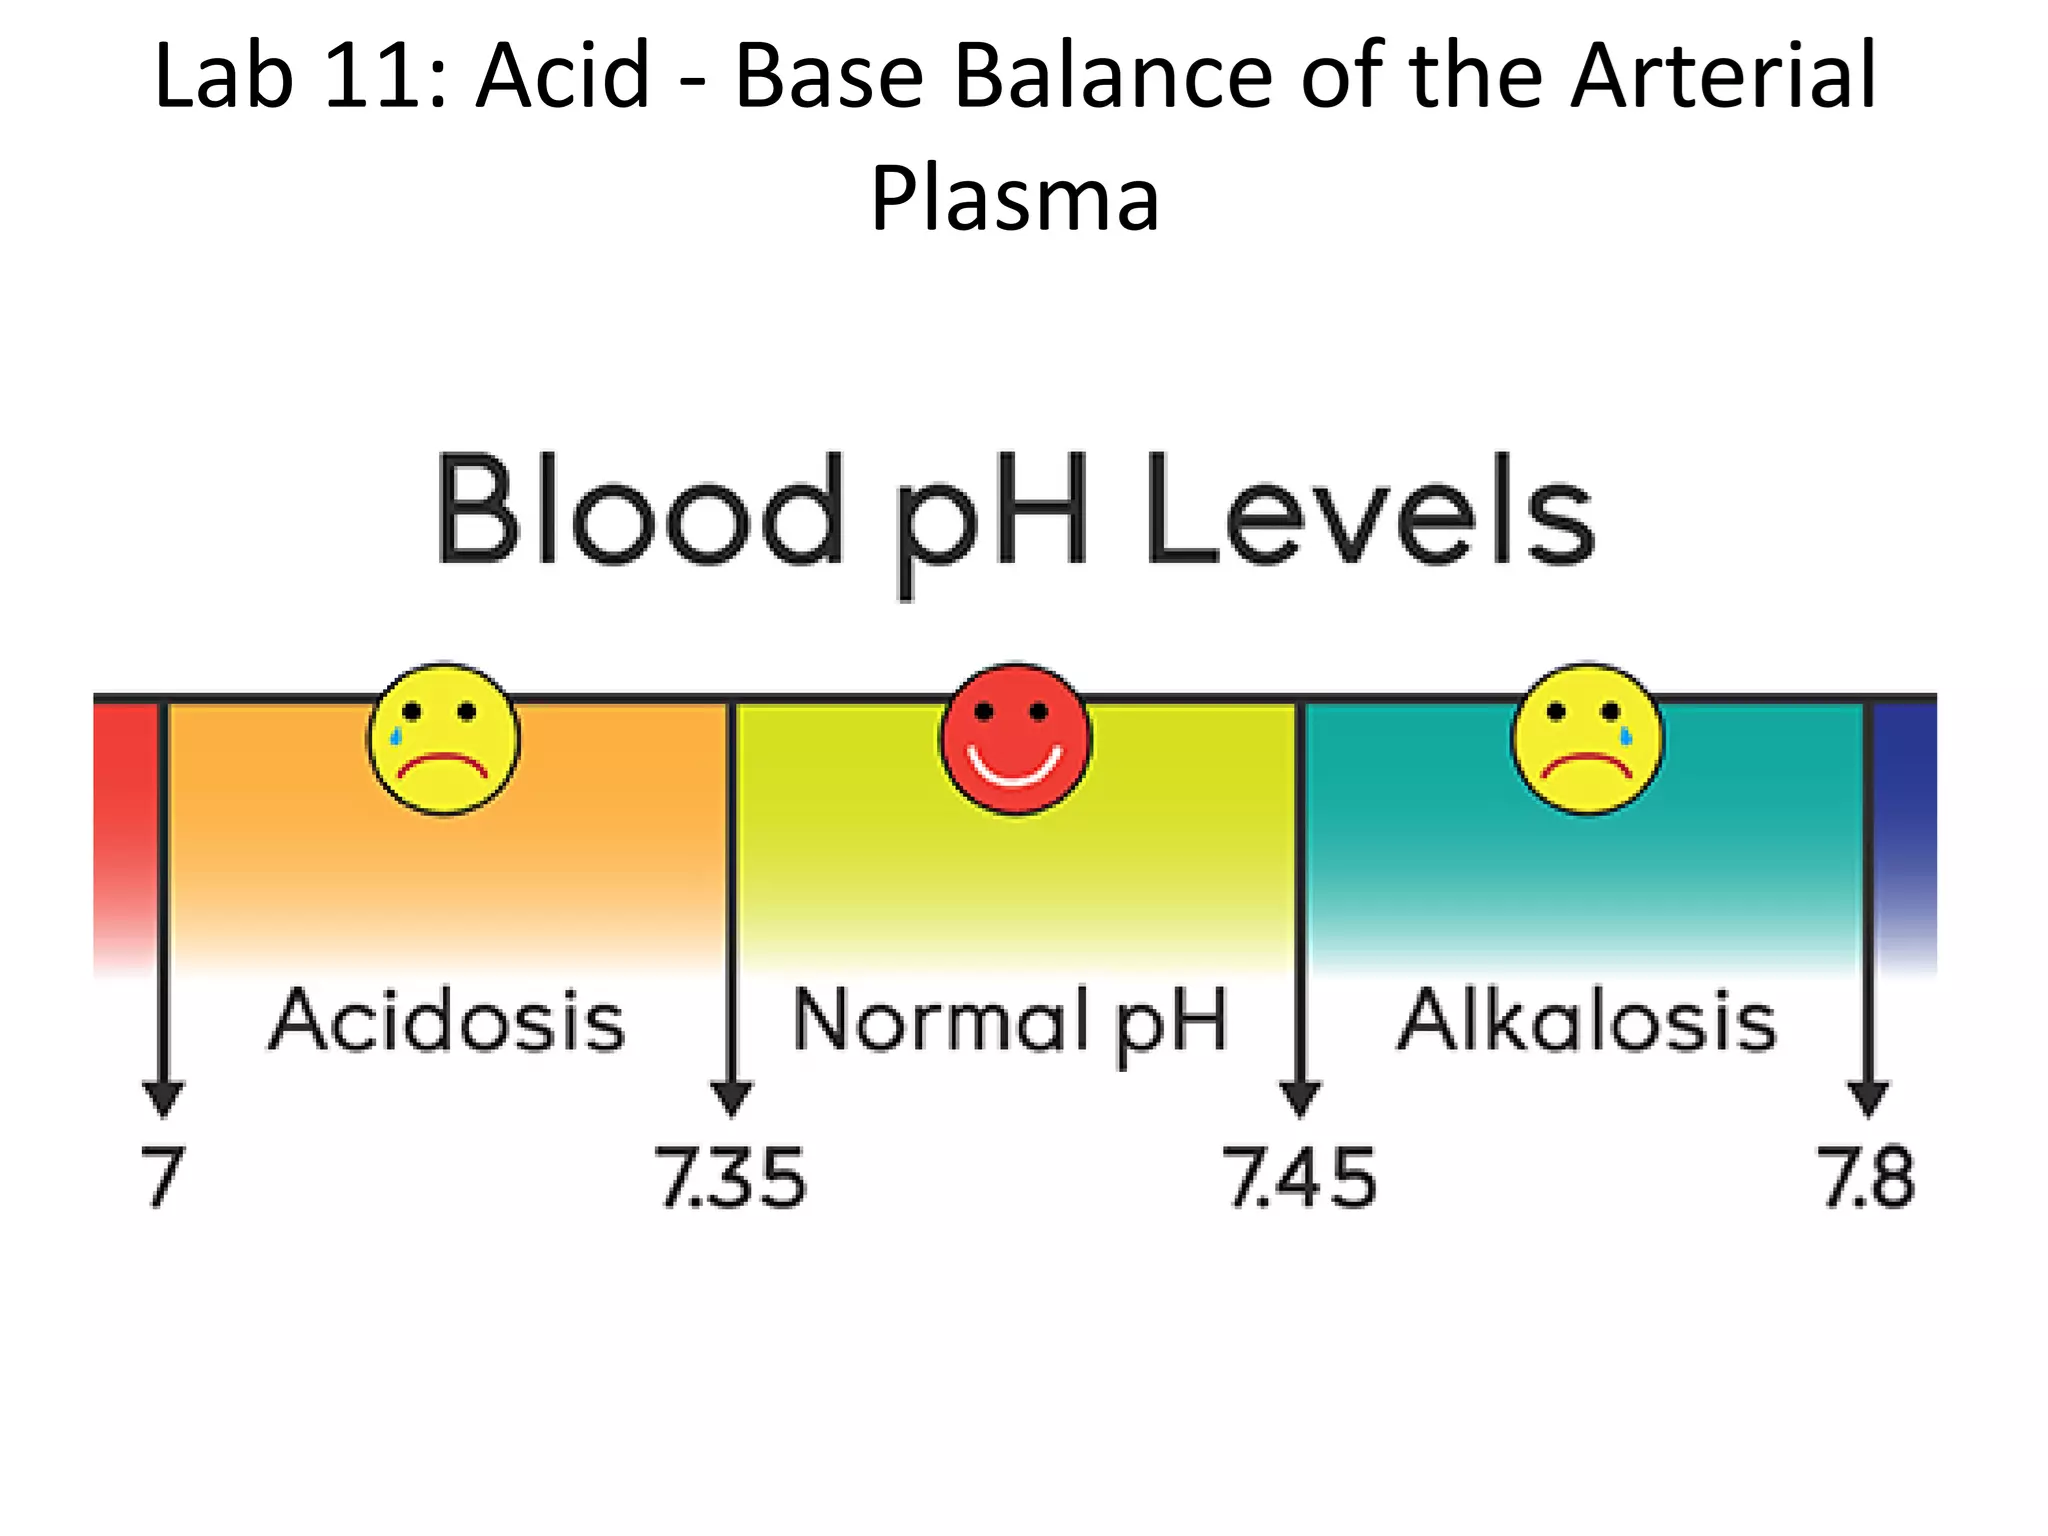
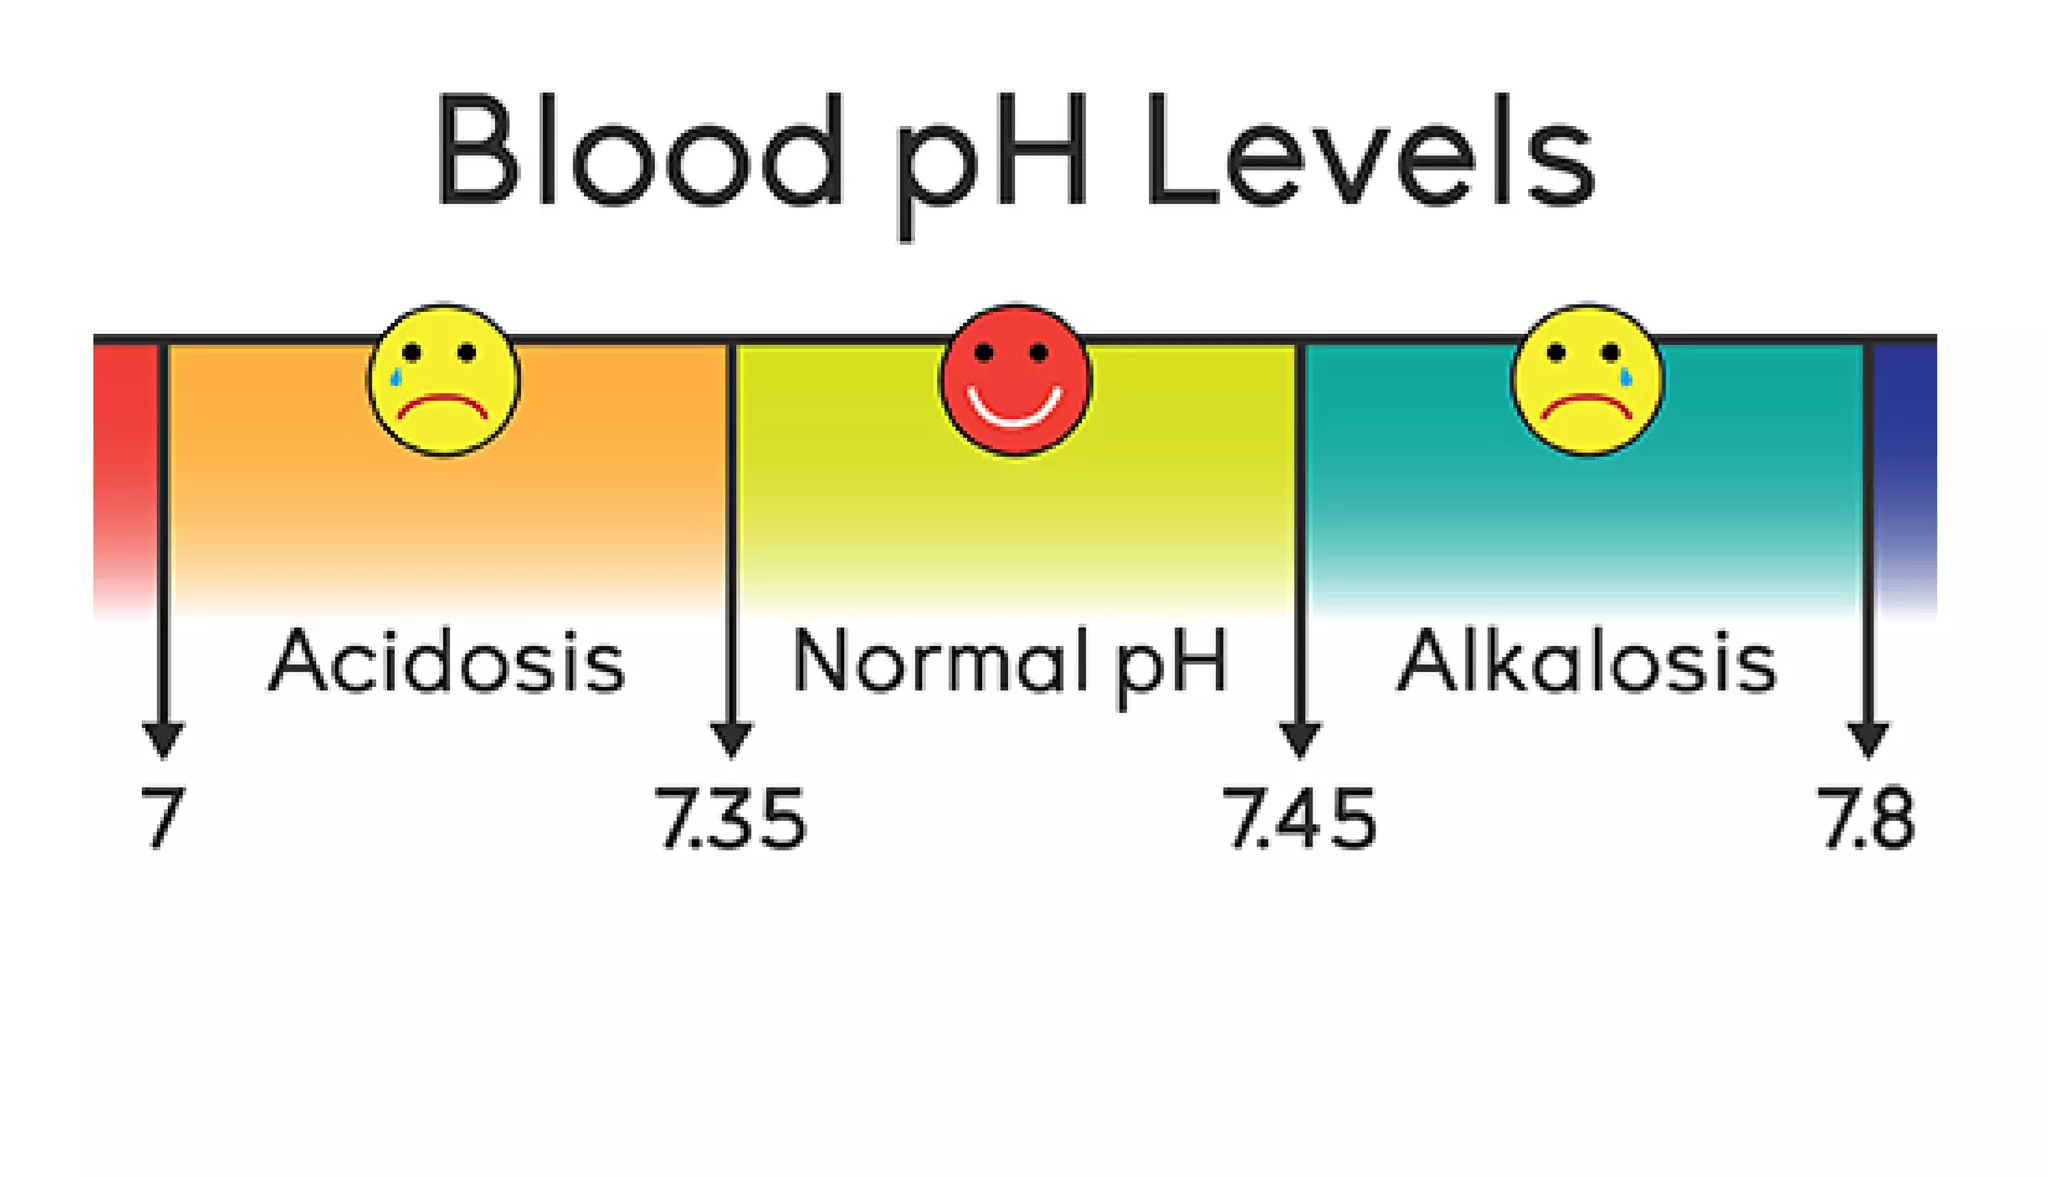
Fix text

diff --git a/index.html b/index.html
@@ -18,9 +18,9 @@
             
         </div>
         <div class="navbar">
-            <table class="navTable">
+            <img src="./images/RBCs.png" style="max-height:2lh; margin-bottom:-10px;display:inline-block;margin-left:20px;"><p id="title" style="display:inline-block; margin-left:20px;margin-right:20px;">Blood pH</p>
+            <table class="navTable" style="margin-right:20px;">
                 <tr>
-                    <td class="title">Blood pH <img src="./images/RBCs.png" style="max-height:2lh; margin-bottom:-10px;"></td>
                     <td><a href="#title">Top</a></td>
                     <td><a href="#One">Introduction</a></td>
                     <td><a href="#Two">Buffers</a></td>
@@ -41,9 +41,9 @@
         <div class="section">
             <div class="textBox">
                 <p>Blood pH is the measurement of how acidic or basic your blood is. 
-                    <br><br>The pH scale measures the acidity of a solution from on the concentration of hydronium ions (H3O+) in a solution. It can be calculated using the formulas:
-                    <br><br>pH = -log[H3O+]
-                    <br><br>pH = 14 + log [OH-]
+                    <br><br>The pH scale measures the acidity of a solution from on the concentration of hydronium ions (H<span class="subscript">3</span>O<span class="superscript">+</span>) in a solution. It can be calculated using the formulas:
+                    <br><br>pH = -log([H<span class="subscript">3</span>O<span class="superscript">+</span>])
+                    <br><br>pH = 14 + log([OH<span class="superscript">-</span>])
                     <br><br>Your body’s blood is naturally slightly basic, with a normal pH between 7.35-7.45. It’s very important that the pH is maintained within this range because many of your body’s biological reactions and enzymes depend on specific pH conditions to function.
                     <br><br>Even small changes in your blood pH can create health risks. If your blood reaches pH values of below 6.8 or above 7.8, it could potentially be fatal.
             </p>
@@ -95,14 +95,14 @@
                     <span class="co2 hidden">window.innerWidth/3.0 20 1 false</span>
                     <span class="h2o hidden">window.innerWidth/3.0+199 20 1 false</span>
                 </div>
-                H<span class="subscript">2</span>CO<span class="subscript">3</span> + H<span class="subscript">2</span>O ↔ H<span class="subscript">3</span>O<span class="superscript">+</span> + HCO<span class="subscript">3</span><span class="superscript">-</span>
+                H<span class="subscript">2</span>CO<span class="subscript">3(aq)</span> + H<span class="subscript">2</span>O<span class="subscript">(l)</span> ↔ H<span class="subscript">3</span>O<span class="superscript">+</span><span class="subscript">(aq)</span> + HCO<span class="superscript">-</span><span class="subscript">(aq)</span>
                 <br>
                 <div class="reactionDiv" id="2">
                     <span class="h2co3 hidden">window.innerWidth/3.0+50 50 2 false</span>
                     <span class="h2o hidden">window.innerWidth/3.0+199 30 2 false</span>
                 </div>
                 <br>
-                HCO<span class="subscript" id="3">3</span><span class="superscript">-</span> + H<span class="subscript">2</span>O ↔ H<span class="subscript">2</span>CO<span class="subscript">3</span> + OH<span class="superscript">-</span>
+                HCO<span class="subscript" id="3">3</span><span class="superscript">-</span><span class="subscript">(aq)</span> + H<span class="subscript">2</span>O<span class="subscript">(l)</span> ↔ H<span class="subscript">2</span>CO<span class="subscript">3</span><span class="subscript">(aq)</span> + OH<span class="superscript">-</span><span class="subscript">(aq)</span>
                 <br>
                 <div class="reactionDiv">
                     <span class="hco3 hidden">window.innerWidth/3.0+40 50 3 false</span>
@@ -121,12 +121,12 @@
                 </p>
                 <h2>WHAT HAPPENS WHEN ACID IS ADDED?</h2>
                 <p>
-                    When acid is added and enters the bloodstream, the concentration of hydronium ion (H<span class="subscript">3</span>O<span class="superscript">+</span>) increases, which makes pH decrease. This leads to an excess of hydronium ions, so bicarbonate ions will react with some of these excess ions to form carbonic acid and water. This is the reverse of the 2nd reaction, which can be observed above.
+                    When acid is added and enters the bloodstream, the concentration of hydronium ion (H<span class="subscript">3</span>O<span class="superscript">+</span>) increases, which makes pH decrease. This leads to an excess of hydronium ions, so bicarbonate ions will react with some of these excess ions to form carbonic acid and water. This is the reverse of the 2<span class="superscript">nd</span> reaction, which can be observed above.
                     <br><br>As a result of consuming this excess hydronium, the buffer reduces the amount by which the pH decreases.
                 </p>
                 <h2>WHAT HAPPENS WHEN BASE IS ADDED?</h2>
                 <p>
-                    Likewise, when a base enters the blood, hydroxide ions increase, causing pH to increase. Carbonic acid will then react with these excess ions to form bicarbonate ions and water. This is the reverse of the 3rd reaction.
+                    Likewise, when a base enters the blood, hydroxide ions increase, causing pH to increase. Carbonic acid will then react with these excess ions to form bicarbonate ions and water. This is the reverse of the 3<span class="superscript">rd</span> reaction.
 
                     <br><br>By consuming some of the added hydroxide ions, the buffer reduces the amount by which the pH increases.
                 </p>
@@ -161,7 +161,7 @@
         <div class="textBoxRight">
             <p>
                 All three equations are in equilibrium at once, each impacting the others with their shifts. 
-                <br><br>Let’s say there’s an increase in the concentration of CO2, which thus causes equation 1 to shift right. This increases the concentration of H2CO3, which makes the bloodstream more acidic as it causes equation two to shift right, thus producing more hydronium ions. However, this also produces more bicarbonate ions, which then react with water to increase the concentration of carbonic acid, causing equation 1 to shift left, especially since carbonic acid is unstable in water. 
+                <br><br>Let’s say there’s an increase in the concentration of CO<span class="subscript">2</span>, which thus causes equation 1 to shift right. This increases the concentration of H<span class="subscript">2</span>CO<span class="subscript">3</span>, which makes the bloodstream more acidic as it causes equation two to shift right, thus producing more hydronium ions. However, this also produces more bicarbonate ions, which then react with water to increase the concentration of carbonic acid, causing equation 1 to shift left, especially since carbonic acid is unstable in water. 
                 <br><br>Note that in the Bjerrum plot, the concentrations don’t quite reach zero, they simply dip down to very, very small concentrations. The plot itself is a representation of equilibrium concentrations as a function of pH. The pH of blood is around 7.35-7.45, which is represented with the green segment. 
                 <br><br>It is also worth noting that carbonic acid is a diprotic acid, but since the concentration of carbonate ions is extremely small in the relevant range, it can essentially be treated like a monoprotic acid when it comes to blood. 
             </p>
@@ -200,7 +200,7 @@
                 <br><br>Alkalosis can cause dizziness, confusion, nausea, muscle spasms, seizures, and more.
             </p>
         </div>
-        <div style="height:200px;width:100vw;"></div> <!--Spacer-->
+        <div style="height:300px;width:100vw;"></div> <!--Spacer-->
 
         <h1 class="title">REAL LIFE APPLICATIONS</h1>
         <div class="textBox">
@@ -209,8 +209,9 @@
                 <br><br>Hyperventilation occurs when you breathe rapidly, causing an excess of carbon dioxide to be lost. This loss causes the system to shift left, reducing hydrogen ion concentration and increasing blood pH. This can then lead to respiratory alkalosis.
             </p>
         </div>
+        <img src="./images/Lungs.png" class="zoomScrollImg" style="max-width:40%;max-height:15lh;margin-left:5vw;">
 
-        <div style="height:200px;width:100vw;"></div> <!--Spacer-->
+        <div style="height:100px;width:100vw;"></div> <!--Spacer-->
         <br id="Five"><br><br>
         <p class="sectionHead" style="margin:auto; text-align:center;">05 Conclusion</p>
         <h1 class="title" style="text-align:center;margin-left:0;">Conclusion</h1>

diff --git a/script.js b/script.js
@@ -533,22 +533,22 @@ function addRandomMolecule() { //Adds it to box 10
     let parts;
     const num = getRandom(1,6);
     if (num == 1) { //H2O
-        parts = makeH2O(getRandom(1, 500), getRandom(1, 500), 10, true, getD(4), getD(4), null);
+        parts = makeH2O(getRandom(1, 200), getRandom(1, 200), 10, true, getD(4), getD(4), null);
         console.log("Making a new H2O");
     } else if (num == 2) { //co2
-        parts = makeCO2(getRandom(1, 500), getRandom(1, 500), 10, true, getD(3), getD(3), null);
+        parts = makeCO2(getRandom(1, 200), getRandom(1, 200), 10, true, getD(3), getD(3), null);
         console.log("Making a new CO2");
     } else if (num == 3) { //h2co3
-        parts = makeH2CO3(getRandom(1, 500), getRandom(1, 500), 10, true, getD(2), getD(2), null);
+        parts = makeH2CO3(getRandom(1, 200), getRandom(1, 200), 10, true, getD(2), getD(2), null);
         console.log("Making a new H2CO3");
     } else if (num == 4) { //h3o
-        parts = makeH3O(getRandom(1, 500), getRandom(1, 500), 10, true, getD(4), getD(4), null);
+        parts = makeH3O(getRandom(1, 200), getRandom(1, 200), 10, true, getD(4), getD(4), null);
         console.log("Making a new H3O");
     } else if (num == 5) { //hco3
-        parts = makeHCO3(getRandom(1, 500), getRandom(1, 500), 10, true, getD(3), getD(3), null);
+        parts = makeHCO3(getRandom(1, 200), getRandom(1, 200), 10, true, getD(3), getD(3), null);
         console.log("Making a new HCO3");
     } else if (num == 6) { //oh
-        parts = makeH2O(getRandom(1, 500), getRandom(1, 500), 10, true, getD(5), getD(5), null);
+        parts = makeH2O(getRandom(1, 200), getRandom(1, 200), 10, true, getD(5), getD(5), null);
         console.log("Making a new OH");
     }
     parts.forEach(tempelement => {

diff --git a/style.css b/style.css
@@ -109,12 +109,12 @@ button {
 }
 
 .navTable {
-    display:inline-block;
     padding: 10px;
-    width: 100vw;
+    width: fit-content;
+    float:right;
 
     .title {
-        width: 50%;
+        width: 35%;
     }
     td {
         padding-left:2vw;
@@ -123,6 +123,8 @@ button {
 
 a {
     color:white;
+    text-decoration:none;
+
 }
 
 
